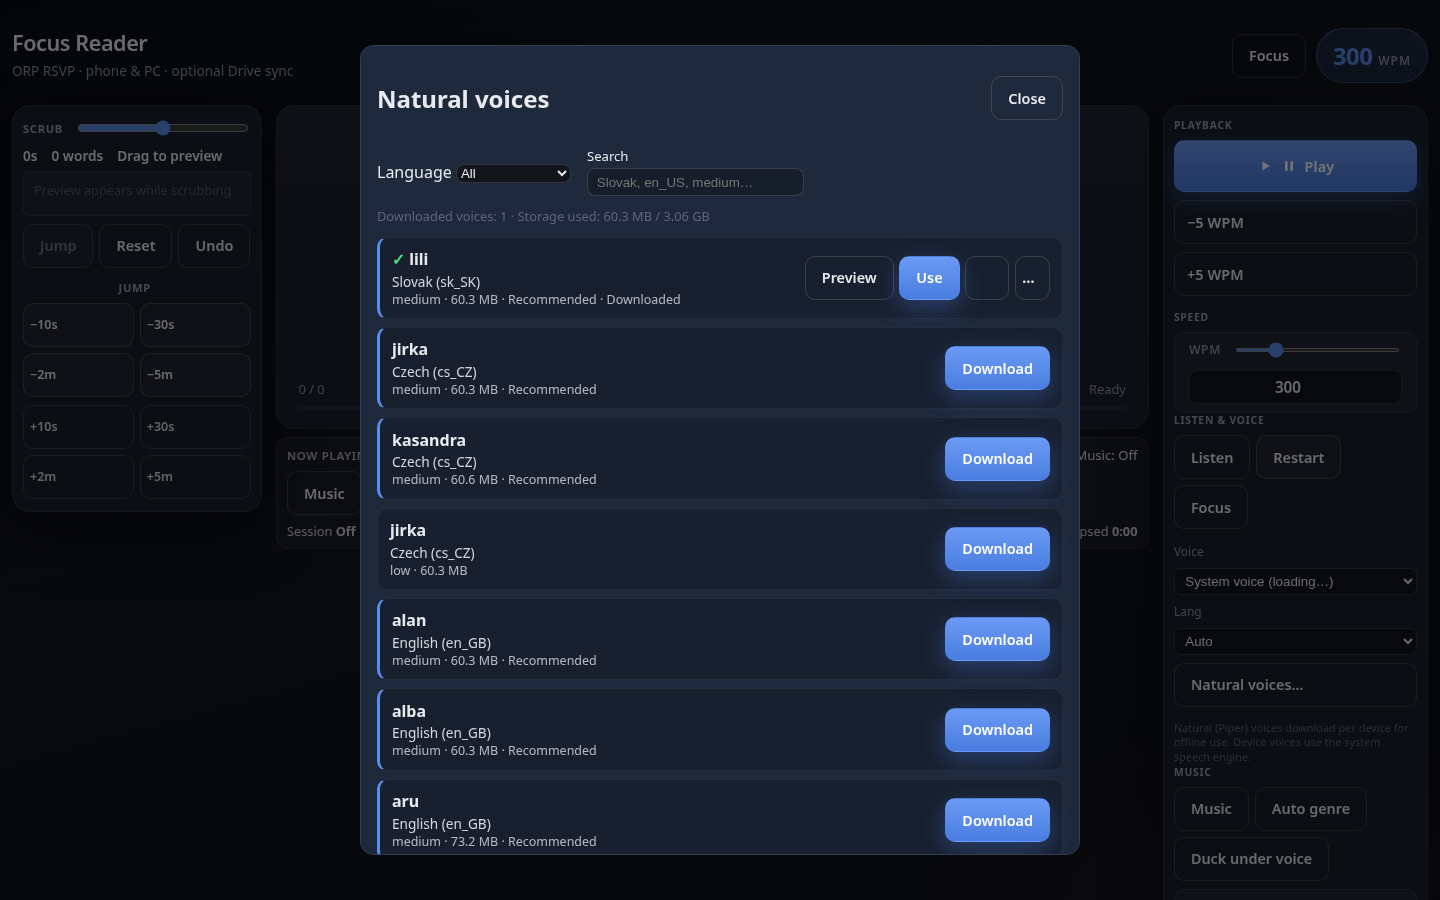
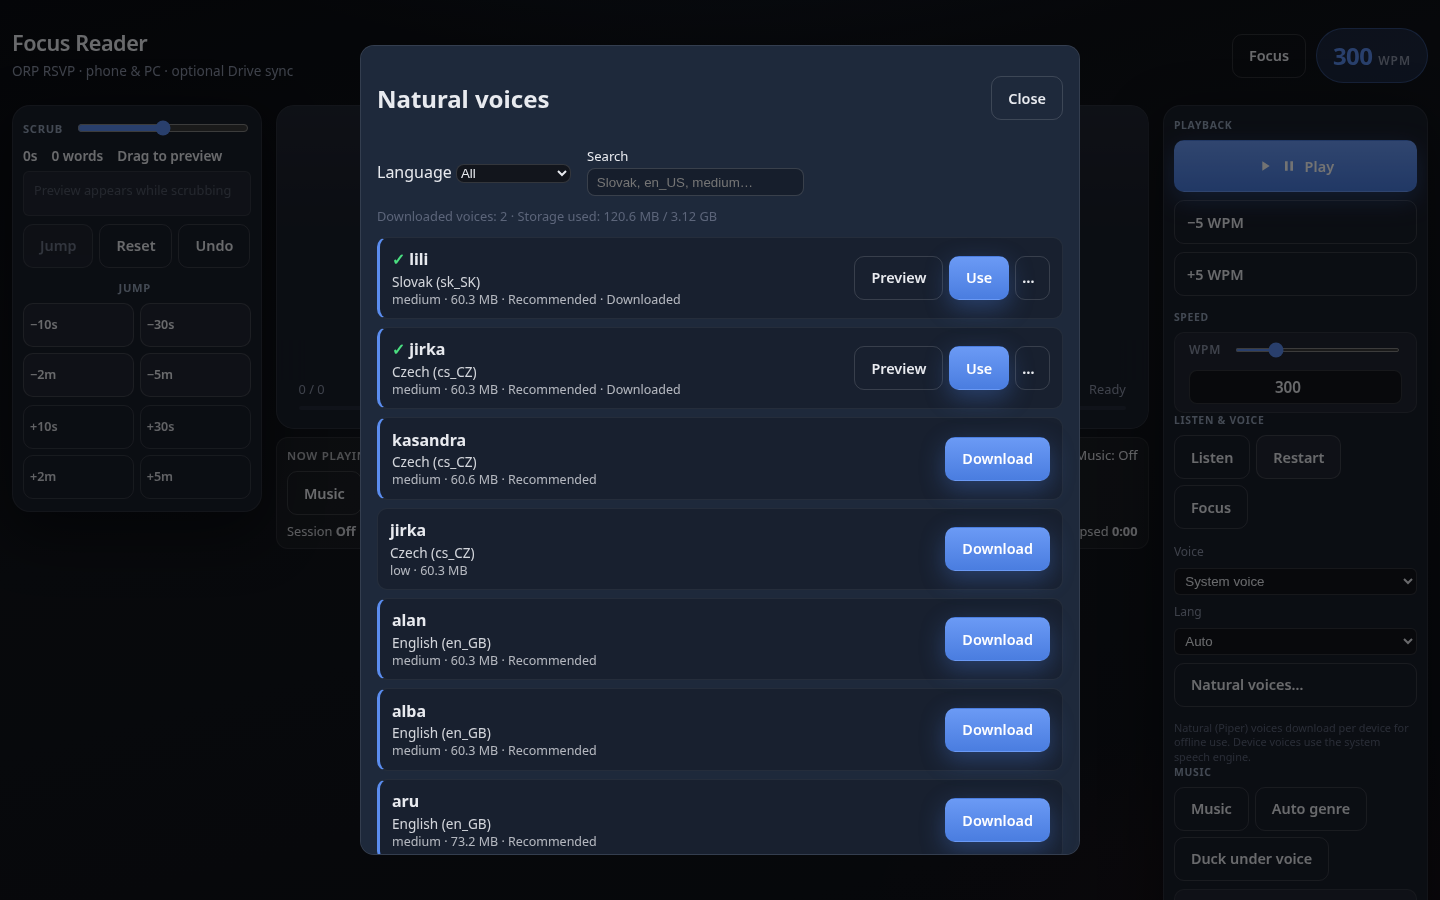
Fix blank voice-row control and System voice loading label (SW v25)
Drop the always-present hidden progress button (created only during
Re-download). Settle Voice select to "System voice" after ≥2s or when
speechSynthesis is unavailable. E2E: no empty visible row buttons;
Voice select has no "loading" after 3s.

diff --git a/app.js b/app.js
@@ -1884,20 +1884,34 @@ if (els.themeSeg) {
 
 
 var _voiceLoadStarted = 0;
+var _voiceLoadTimer = null;
 function populateVoiceSelect() {
   if (!els.voiceSelect || typeof FocusListen === 'undefined') return;
   var voices = FocusListen.loadVoices(true);
   if (!voices.length) voices = FocusListen.getVoices();
-  if (!voices.length && !_voiceLoadStarted) {
+  var synthOk = typeof speechSynthesis !== 'undefined' &&
+    typeof SpeechSynthesisUtterance !== 'undefined';
+  // No speechSynthesis → settle immediately (no perpetual "loading…")
+  if (!voices.length && !synthOk) {
+    _voiceLoadStarted = _voiceLoadStarted || (Date.now() - 3000);
+  } else if (!voices.length && !_voiceLoadStarted) {
     _voiceLoadStarted = Date.now();
     setTimeout(function () { populateVoiceSelect(); }, 500);
-    setTimeout(function () { populateVoiceSelect(); }, 2000);
+    if (_voiceLoadTimer) clearTimeout(_voiceLoadTimer);
+    // 2100ms so Date.now() - start is reliably >= 2000 when the timer fires
+    _voiceLoadTimer = setTimeout(function () { populateVoiceSelect(); }, 2100);
+  } else if (voices.length) {
+    _voiceLoadStarted = 0;
+    if (_voiceLoadTimer) { clearTimeout(_voiceLoadTimer); _voiceLoadTimer = null; }
   }
   var prev = els.voiceSelect.value || (FocusListen.getVoiceURI && FocusListen.getVoiceURI()) || '';
   els.voiceSelect.innerHTML = '';
   var ph = document.createElement('option');
   ph.value = '';
-  var loadingTooLong = !voices.length && _voiceLoadStarted && (Date.now() - _voiceLoadStarted > 2000);
+  var loadingTooLong = !voices.length && (
+    !synthOk ||
+    (_voiceLoadStarted && (Date.now() - _voiceLoadStarted >= 2000))
+  );
   ph.textContent = voices.length
     ? 'Auto (best available)'
     : (loadingTooLong ? 'System voice' : 'System voice (loading…)');

diff --git a/voices-ui.js b/voices-ui.js
@@ -296,18 +296,21 @@
         }
         actions.appendChild(btnUse);
 
-        var btnProg = document.createElement('button');
-        btnProg.type = 'button';
-        btnProg.className = 'btn btn-ghost btn-touch voice-btn-progress';
-        btnProg.hidden = true;
-        actions.appendChild(btnProg);
-
         actions.appendChild(buildOverflow([
           {
             label: 'Re-download',
             onClick: function () {
-              btnProg.hidden = false;
-              downloadVoice(v.id, btnProg, row).then(function () { btnProg.hidden = true; });
+              var btnProg = document.createElement('button');
+              btnProg.type = 'button';
+              btnProg.className = 'btn btn-ghost btn-touch voice-btn-progress';
+              btnProg.textContent = '0%';
+              btnProg.disabled = true;
+              var ov = actions.querySelector('.voice-overflow');
+              if (ov) actions.insertBefore(btnProg, ov);
+              else actions.appendChild(btnProg);
+              Promise.resolve(downloadVoice(v.id, btnProg, row)).finally(function () {
+                if (btnProg.parentNode) btnProg.remove();
+              });
             }
           },
           {

diff --git a/service-worker.js b/service-worker.js
@@ -1,5 +1,5 @@
 /* Focus Reader service worker — app-shell cache-first; Google APIs network-only */
-var CACHE = 'focus-reader-v24';
+var CACHE = 'focus-reader-v25';
 var PRECACHE = [
   './',
   './index.html',

diff --git a/styles.css b/styles.css
@@ -317,6 +317,7 @@ body {
   padding: 0 4px;
 }
 
+.btn[hidden] { display: none !important; }
 .btn {
   appearance: none;
   border: 1px solid var(--border-strong);
